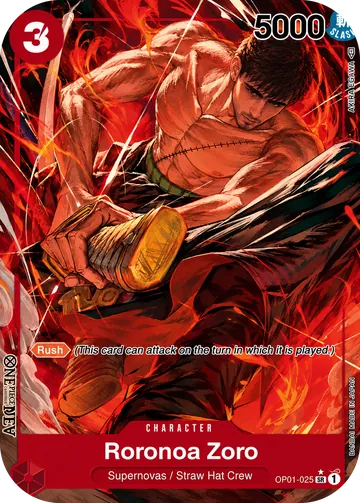
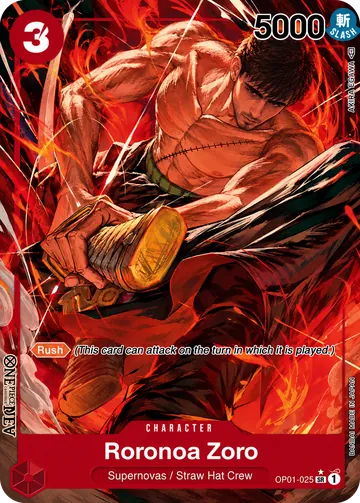
Carta 024: radio de esquina corregido
Claude-Session: https://claude.ai/code/session_01RKqP5b5CRovyCndC1JQ6RS

diff --git a/herramientas/anadir_carta.py b/herramientas/anadir_carta.py
@@ -13,7 +13,7 @@ def radio_esquina(im):
 
 def procesar(src, num):
     im = Image.open(src).convert('RGB'); W, H = im.size
-    r = max(int(radio_esquina(im) / (1 - 0.7071)) + 2, round(W * 0.045))
+    r = min(max(int(radio_esquina(im) / (1 - 0.7071)) + 2, round(W * 0.045)), round(W * 0.07))
     m = Image.new('L', (W * 4, H * 4), 0)
     ImageDraw.Draw(m).rounded_rectangle((0, 0, W * 4 - 1, H * 4 - 1), radius=r * 4, fill=255)
     im.putalpha(m.resize((W, H), Image.LANCZOS))
